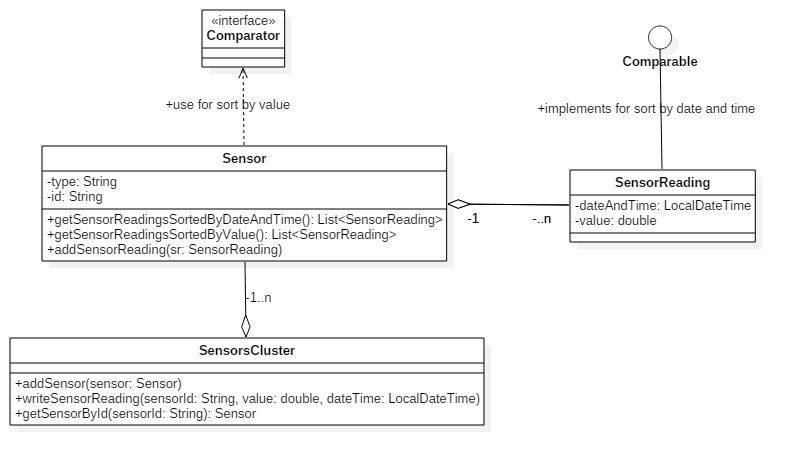
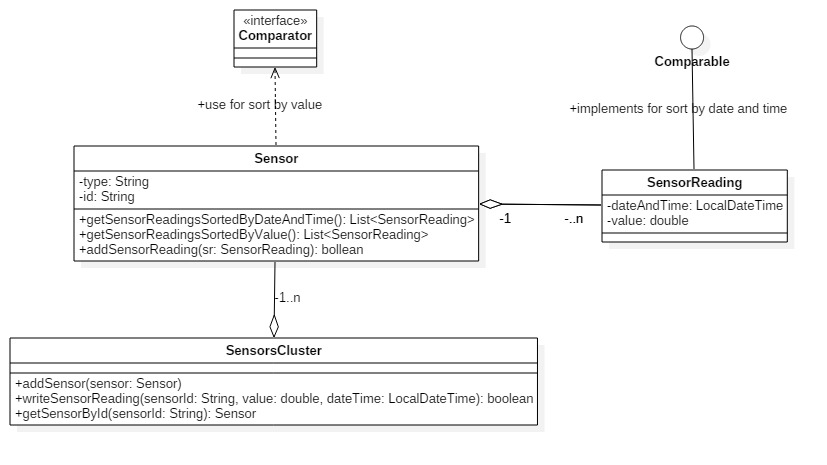
Update diagrams. Update exercises.

diff --git a/readme.MD b/readme.MD
@@ -11,7 +11,7 @@ Given the UML class diagram above, implement the corresponding Java program.
     * _Sensor_ should use ```Comparator<SensorReading>``` for comparing _SensorReading_ by value
 2. Demonstrate the functionality of application in Exercise1 class main method.
     * Use _SensorsCluster.addSensor_ to add few sensors
-    * Use _SensorsCluster.writeSensoreading_ to add some readings for previously added sensors
+    * Use _SensorsCluster.writeSensorReading_ to add some readings for previously added sensors. This method should search for sensor by sensorId and use the sensor addSensorReading() to add a new value. Method will return false if sensor cannot be found
     * Use _SensorsCluster.getSensorById_ to obtain a reference for a previously added sensor and display sorted readings by the 2 provided criterias
 3. Create minimal unit tests for testing the behavior of the program.
 
